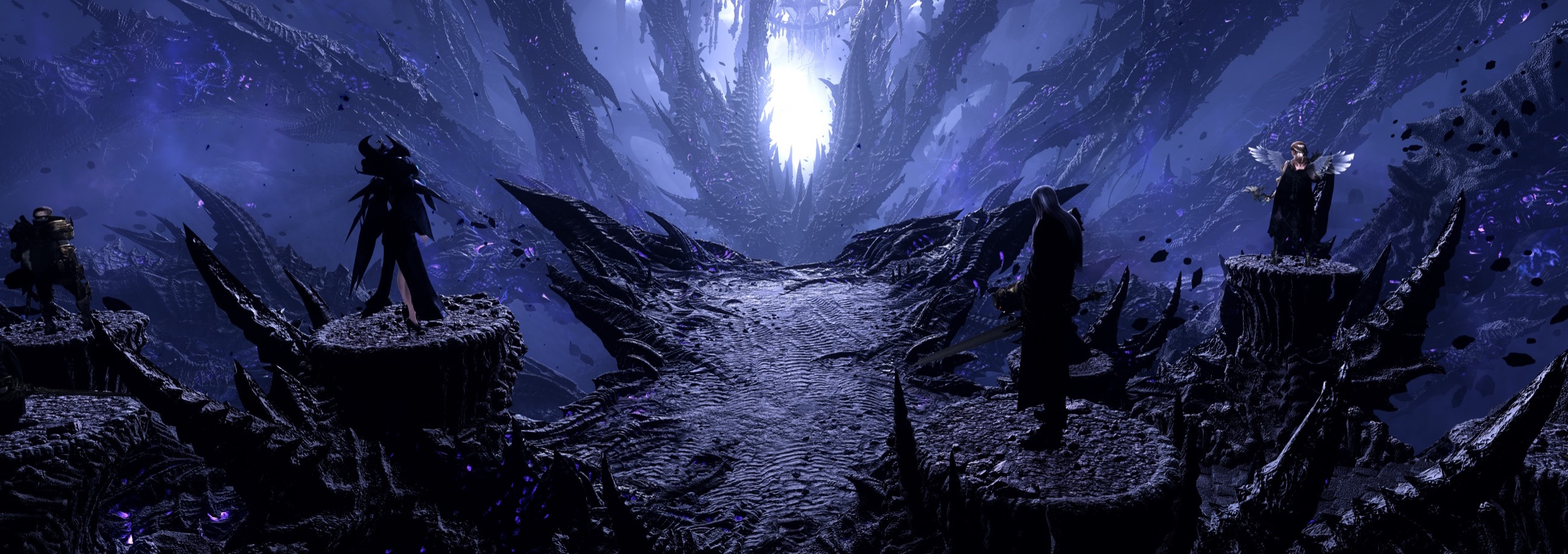
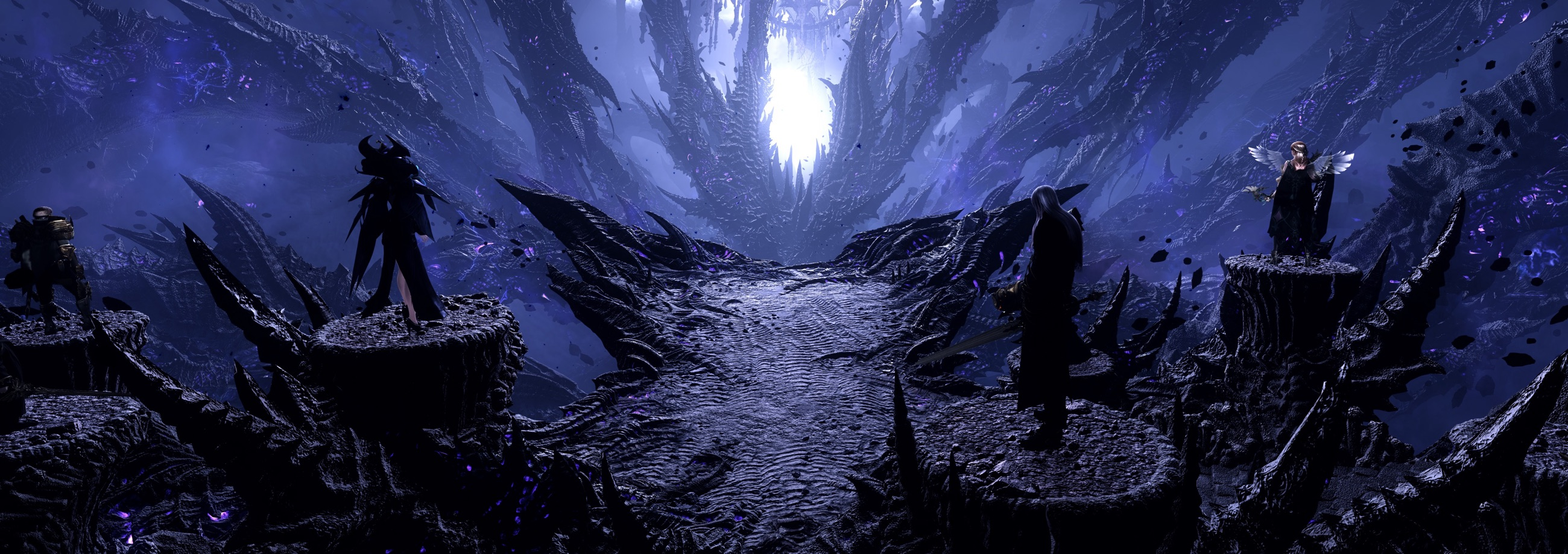
게임 상세 2 대표배너 — 로고 안 걸리게 다시 크롭, 5주년 그림 → 아만의 희생
- 원본 오른쪽 위 로고 · 아래 저작권 문구를 피해 자름
- 9번(날개 괴수)은 왼쪽 빈 곳 대신 오른쪽 위주로 확대

Changed region(s): [[0.405, 0.487, 0.5608, 0.6391], [0.7788, 0.4565, 0.8412, 0.487], [0.2804, 0.5478, 0.3115, 0.5783]]

diff --git a/js/game-detail-component.js b/js/game-detail-component.js
@@ -48,7 +48,7 @@ var GAME_DETAIL_DATA = {
     // 2 1단 풀배너 — 이미지 2600×920 (1.5배수), 파일명 Client3.0_PC게임상세_07_1단풀배너_게임명_NN
     //   로스트아크 10장 = 스마일게이트 뉴스룸 로스트아크 갤러리에서 크롭 (사용자 11-19)
     fullBanner: [1, 2, 3, 4, 5, 6, 7, 8, 9, 10].map(function (n) {
-      return 'Client3.0_PC게임상세_07_1단풀배너_로스트아크_' + (n < 10 ? '0' : '') + n + '.jpg?v=2';
+      return 'Client3.0_PC게임상세_07_1단풀배너_로스트아크_' + (n < 10 ? '0' : '') + n + '.jpg?v=3';
     }),
     // 3 1단배너-썸네일형 (pattern/banner/multi) — 첫 장(영상)이 큰 화면, 아래 썸네일로 바꾼다
     thumbnailBanner: [

diff --git a/game-detail.html b/game-detail.html
@@ -55,7 +55,7 @@
   <script src="js/stove-app-dialog-component.js?v=3"></script>
   <script src="js/utility-notice-component.js?v=7"></script>
   <script src="js/utility-bar-component.js?v=15"></script>
-  <script src="js/game-detail-component.js?v=38"></script>
+  <script src="js/game-detail-component.js?v=39"></script>
   <script src="js/page-scrollbar.js?v=2"></script>
   <script>
     mountGnb('#gnb-mount');
